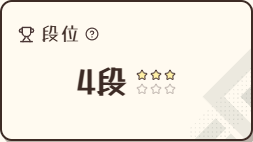
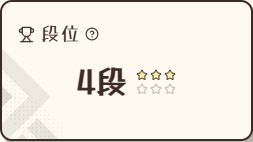
feat(ui): apply functional card screenprints

diff --git a/tests/e2e/card-screenprints.spec.js b/tests/e2e/card-screenprints.spec.js
@@ -1,0 +1,118 @@
+import { expect, test } from "@playwright/test";
+
+const base = "/docs/design-samples/academy-card-materials-2026-10-22/";
+const profile = [
+  [".profile-resume-hero", "identity"], [".profile-summary-item.is-primary", "rank"],
+  [".profile-record-card", "record"], [".profile-recent-section", "record"], [".profile-character-section", "record"]
+];
+const windows = {
+  self: profile, social: profile,
+  friends: [[".fc-person", "social"], [".fc-detail", "social"]],
+  warehouse: [[".wg-entry", "inventory"], [".wg-inspector", "inventory"]],
+  watch: [[".wl-row", "tactics", "::before"]],
+  handbook: [[".character-skill-description", "tactics"], [".character-description", "reading"]],
+  achievement: [[".achievement-row:not(.achievement-heading)", "honor"]],
+  announcement: [[".announcement-list-item", "reading"], [".announcement-detail", "reading"]]
+};
+async function settle(page, selector) {
+  await page.locator(selector).first().waitFor();
+  await page.evaluate(async () => {
+    await document.fonts.ready;
+    await Promise.all([...document.images].map(image => image.decode().catch(() => {})));
+    await Promise.all(document.getAnimations().filter(animation => animation.effect?.getComputedTiming().iterations !== Infinity).map(animation => animation.finished.catch(() => {})));
+  });
+}
+async function cards(page, [selector, , pseudo]) {
+  return page.locator(selector).evaluateAll((elements, pseudoElement) => elements.map(element => {
+    const rect = element.getBoundingClientRect(), style = getComputedStyle(element, pseudoElement);
+    return {
+      box: [rect.x, rect.y, rect.width, rect.height].map(value => Math.round(value * 10) / 10),
+      text: element.textContent,
+      fill: style.backgroundColor, image: style.backgroundImage,
+      size: style.backgroundSize.split(",").at(-1).trim(),
+      position: style.backgroundPosition.split(",").at(-1).trim(),
+      repeat: style.backgroundRepeat.split(",").at(-1).trim()
+    };
+  }), pseudo);
+}
+
+for (const width of [1440, 390, 320]) {
+  for (const [surface, roles] of Object.entries(windows)) {
+    test(`${surface} keeps the approved card layout and function prints at ${width}px`, async ({ page }) => {
+      const errors = [];
+      page.on("pageerror", error => errors.push(error.message));
+      await page.setViewportSize({ width, height: width === 1440 ? 1000 : width === 390 ? 844 : 568 });
+      await page.goto(`${base}sample.html?v=screenprint-roles&window=${surface}`);
+      if (surface === "announcement") await page.locator(".announcement-list-item").first().click();
+      await settle(page, roles[0][0]);
+      const approved = await Promise.all(roles.map(role => cards(page, role)));
+      await page.goto(`${base}production.html?window=${surface}`);
+      if (surface === "announcement") await page.locator(".announcement-list-item").first().click();
+      await settle(page, roles[0][0]);
+      await expect(page.locator("[data-material], #material-preview")).toHaveCount(0);
+      expect(await page.evaluate(() => [...document.styleSheets].some(sheet => /\/(?:materials|screenprint-roles|preview-isolation|harness)\.css/.test(sheet.href || sheet.ownerNode?.getAttribute("data-vite-dev-id") || "")))).toBe(false);
+      for (const [index, role] of roles.entries()) {
+        const actual = await cards(page, role);
+        expect(actual.length).toBeGreaterThan(0);
+        expect(actual.map(({ image: _image, box: _box, ...rest }) => rest)).toEqual(approved[index].map(({ image: _image, box: _box, ...rest }) => rest));
+        for (const [cardIndex, card] of actual.entries()) {
+          for (const [coordinate, value] of card.box.entries()) {
+            // Native table row distribution can round fractions differently after a reload.
+            expect(Math.abs(value - approved[index][cardIndex].box[coordinate])).toBeLessThan(0.5);
+          }
+        }
+        for (const card of actual) {
+          expect(card.image).toContain(`/assets/ui/card-prints/${role[1]}.svg`);
+          expect(card.repeat).toBe("no-repeat");
+        }
+      }
+      expect(await page.evaluate(() => document.documentElement.scrollWidth <= innerWidth)).toBe(true);
+      expect(errors).toEqual([]);
+    });
+  }
+}
+
+test("every public print loads and non-campus/corrupted surfaces stay isolated", async ({ page, request }) => {
+  for (const role of ["identity", "record", "social", "inventory", "tactics", "reading", "honor", "rank"]) {
+    const response = await request.get(`/assets/ui/card-prints/${role}.svg`);
+    expect(response.ok()).toBe(true);
+    expect(await response.text()).toContain("<svg");
+  }
+  await page.goto(`${base}production.html?window=self`);
+  await settle(page, ".profile-resume-hero");
+  const image = () => page.locator(".profile-resume-hero").evaluate(element => getComputedStyle(element).backgroundImage);
+  await page.locator(".app-shell").evaluate(element => element.classList.add("is-sigrika-corrupted"));
+  expect(await image()).not.toContain("card-prints");
+  await page.locator(".app-shell").evaluate(element => { element.classList.remove("is-sigrika-corrupted"); element.classList.remove("theme-bright-school"); });
+  expect(await image()).not.toContain("card-prints");
+  await page.goto(`${base}sample.html?window=self&off=1`);
+  await settle(page, ".profile-resume-hero");
+  expect(await image()).toBe("none");
+});
+
+test("selection, finished-room hover and pressed cards preserve their print and fill", async ({ page }) => {
+  for (const [surface, selector] of [["friends", ".fc-person"], ["warehouse", ".wg-entry"]]) {
+    await page.goto(`${base}production.html?window=${surface}`);
+    await settle(page, selector);
+    const card = page.locator(selector).nth(1);
+    const paint = () => card.evaluate(element => ({ image:getComputedStyle(element).backgroundImage, fill:getComputedStyle(element).backgroundColor }));
+    const before = await paint();
+    await card.click();
+    await expect(card).toHaveAttribute("aria-pressed", "true");
+    expect((await paint()).image).toBe(before.image);
+    await card.hover();
+    await page.mouse.down();
+    expect((await paint()).image).toBe(before.image);
+    await page.mouse.up();
+  }
+  await page.goto(`${base}production.html?window=watch`);
+  await settle(page, ".wl-row.finished");
+  const finished = page.locator(".wl-row.finished").first();
+  const paint = () => finished.evaluate(element => ({ image:getComputedStyle(element, "::before").backgroundImage, fill:getComputedStyle(element, "::before").backgroundColor }));
+  const before = await paint();
+  await finished.locator("button").hover();
+  expect(await paint()).toEqual(before);
+  await page.mouse.down();
+  expect(await paint()).toEqual(before);
+  await page.mouse.up();
+});

diff --git a/src/styles/cssLayerInventory.js b/src/styles/cssLayerInventory.js
@@ -12,16 +12,17 @@ export const CSS_DEBT_BASELINE = {
   date: "2026-10-22",
   scope: "Window loading adds 1035 normalized bytes, three targeted important declarations and reduced-motion coverage in the existing empty-state owner. Ordinary button states replace three repeated selector lists with one nested state owner, add complete press/focus/disabled/reduced-motion rules, and retire generic icon/action motion selectors. Specialty button opt-in removes dossier, purchase and recruitment state duplication while retaining artwork and geometry. All CSS files under src/styles after the import-only split work, including the focused normal/corrupted theme-transition visual structure and reduced-motion owners, the focused corrupted-duel atmosphere, panel, timer, control, icon, secondary-surface, mobile-readability, portaled system-log, lifecycle, replay/result, and dialogue/fake-skill presentation owners, the ten focused production IRIS Database V2 entry/shell/greeting/portrait/archive/record/theme/typography owners with image-free desktop/mobile art reservations and the scoped Dotted Songti Circle plus WuWa Latin/numeric font stack, the shared and Bright School character-music-player subdomains with the transparent hand-painted radio shell, contained alpha-safe asset geometry, and painted-circle control alignment, admin story node settings CSS and story workbook import feedback, frontend layout polish contracts including story-player padding, game-mode icon watermark/player-plaque/nameplate/utility image contracts, the asset-owned open-starlight rune-ink Semantic Ignition with a persistent rim, separated open-center left-to-right filaments/contour streams, and paired right-tail streaks, Danya off-center pearlescent dream bubble, and Aemeath paper-flight beacon nameplate shells plus their reduced-motion owners, Aemeath exact-ID ice-white username treatment, separated paper-wake and perimeter traces, paired right-tail light, the board-owned Aemeath rainbow grid-trace and particle owners with their reduced-motion fallback, the owned-only holographic memorial-ticket action, isolated Pink Cyber Angel sprite-atlas recruitment cinematic, player-mailbox text-only low-chrome list, completion-state dimming, quiet paper reader, independent item/coin tiles, portaled shop-style item detail, quantity/claimed overlays, light-green mail toast, claimed-attachment action state, and final post-theme readability contract, stable desktop utility-art tilt with direction-preserving hover rotation and scale compensation, tutorial reply-option overflow containment, mobile announcement badge anchoring, mobile utility-image feedback containment, the semantic Bright School login header with its responsive mascot-panel composition and extended layered paper-rule shelf, the dedicated 900px mobile-layout login mascot lockup owner plus accessible auth field, password-visibility, pending, short-height scrolling, and reduced-motion rules, the shared orange preload fill-flow, borderless warm-glow, upright endpoint-glide, and disabled password-toggle centering owners, the shared/theme/final-mobile Zahira shop window plus card-layout isolation, compact-height, badge, desktop raster background, dedicated portrait raster background, and enlarged mascot-copy owner files, the deep-red theatrical costume storefront with a separate card/art owner, portaled wardrobe dialog, split responsive wardrobe layout, Bright School costume overlay owners, and home-scoped portrait width guard, cloud-deployment mobile floating layer tokens, transform-surface compositor hints, semantic home/window title typography, the full-width 16px watch-mode tabs with one-em room-count spacing, the final Bright School practice-entry rotation, reduced-motion behavior, and home-utility hard-shadow parity owner, the shared skill-trait description popover, admin glossary, mobile character-detail scrolling owner rules, the scoped Bright School root scrollbar, final portrait modal shadow-gutter, admin neutral scrollbar owners, and the Bright School unobtained-roster monochrome CRT surface, hidden-intel monitor, and shared signal-fault motion owners.",
   metrics: {
-    totalFiles: 763,
-    totalBytes: 1772314,
-    importantCount: 10554,
-    importantFiles: 416,
+    totalFiles: 764,
+    totalBytes: 1776622,
+    importantCount: 10559,
+    importantFiles: 417,
     hardcodedHexCount: 2490,
-    mediaFiles: 342,
+    mediaFiles: 343,
     reducedMotionFiles: 94,
     highZIndexFiles: 7
   },
   featureDeltas: [
+    "2026-10-22: approved functional card screenprints add one bounded final Bright School owner, seven motif SVGs and a mirrored lower-left rank variant. Exact task-only CSS delta {\"totalFiles\":1,\"totalBytes\":4308,\"importantCount\":5,\"importantFiles\":1,\"hardcodedHexCount\":0,\"mediaFiles\":1,\"reducedMotionFiles\":0,\"highZIndexFiles\":0}. Explicit window/card selectors preserve layout, state fills and foreground art; corrupted and other themes are excluded. Single-corner no-repeat paint, existing 768px breakpoint, no runtime animation or unrelated profile debt absorbed.",
     "2026-10-22: approved watch paper cards and live-search frame promote the isolated preview into three bounded watch owners. Finished rooms keep a neutral gray fill during hover/press; stable snap targets preserve complete rows. Exact scoped delta {\"totalFiles\":1,\"totalBytes\":3210,\"importantCount\":3,\"importantFiles\":1,\"hardcodedHexCount\":0,\"mediaFiles\":1,\"reducedMotionFiles\":1,\"highZIndexFiles\":0}; no unrelated profile CSS absorbed, all owners below 6000 bytes.",
     "2026-10-22: approved warehouse paper layout replaces the existing three final owners, removing category/paging styles and retaining target-dialog rules. Exact delta: +72 normalized bytes, +20 scoped important declarations, +1 media owner and +1 reduced-motion owner. No new CSS files, literal colors, breakpoint families or z-index owners. Whole-row fitting and native snapping reserve both card-edge shadows; portrait detail stays compact.",
     "2026-10-22: remove the friends search focus-within outline at user request; -90 normalized bytes in the existing owner, no other metric growth.",
@@ -605,6 +606,7 @@ export const CSS_LAYER_GROUPS = [
       "mobile-adaptive/mobile-room-portrait.css",
       "mobile-adaptive/mobile-room-landscape.css",
       "mobile-adaptive/mobile-profile-records.css",
+      "mobile-adaptive/card-screenprints.css",
       "mobile-adaptive/mobile-profile-records/profile-shell-hero.css",
       "mobile-adaptive/mobile-profile-records/profile-summary-results.css",
       "mobile-adaptive/mobile-profile-records/character-record-list.css",

diff --git a/docs/system-design.html b/docs/system-design.html
@@ -53,6 +53,8 @@
 </head>
 <body>
 <h1>SigrikaGo 系统设计</h1>
+<h3>2026-10-22 功能卡片丝印正式接入</h3>
+<p>已将用户确认的<a href="./design-samples/academy-card-materials-2026-10-22/screenprint.html">七种功能纹理</a>接入普通 Bright School 的履历、他人详情、好友、仓库、观战、角色详情、成就和公告。独立最终样式 owner 按卡片语义分配静态 SVG，只覆盖单次背景绘制；保留原尺寸、文字、边框、阴影、状态色及角色美术，黑化主题和其它主题不参与。按后续要求，段位使用授章图形的左右镜像并放在左下角，成就继续使用右下原图。桌面与竖屏采用已确认的不同尺度；观战纹理随原纸卡底层移动。比较页新增<a href="./design-samples/academy-card-materials-2026-10-22/production.html">正式样式预览</a>，历史样板保留独立覆盖以便对照；详情预览先挂载主题壳再打开 Portal，与正式应用生命周期一致。资源、作用域与验证合同见 <a href="./system-design/06-ui-theme-mobile.md">UI 主题分篇</a>及<a href="./design-samples/academy-card-materials-2026-10-22/production-integration.md">实装记录</a>。</p>
 <h3>2026-10-22 按卡片功能分配丝印纹理</h3>
 <p>用户认可 C 战术丝印后，新增<a href="./design-samples/academy-card-materials-2026-10-22/screenprint.html">七类功能纹理样板</a>：档案切角用于身份，棋局矩阵用于战绩与挑战，交叠联结用于好友，封装折带用于物品，对向楔阵用于技能与观战，页角印层用于简介与公告，授章菱片用于段位和成就。同一履历组合身份／荣誉／记录三种背景，角色详情区分战术正文与阅读简介；列表和详情使用不同尺度与角部留白。保留原 A/B/C 比较和生产布局、字体、状态色及专属角色美术，新增样板根标记只在独立页面启用；正式主题未接入。八类窗口在桌面及 390／320px 共 24 组验证中卡片位置、尺寸和文字与原版一致，无横向溢出或加载错误。映射表、生成脚本、截图与验证见<a href="./design-samples/academy-card-materials-2026-10-22/functional-screenprint.md">功能丝印说明</a>。</p>
 <h3>2026-10-22 学院卡片材质三版跨窗口样板</h3>
@@ -5411,6 +5413,10 @@
 <p>普通登录加载复用 <code>AssetPreloadScreen</code> 的随机角色、跳动、纸质进度条与 10 秒提示轮换；<code>LoginAssetPreloadScreen</code> 仅适配实时目录、台词、进度与笔刷 Tip 样式。Tip 位于加载条下方，正文桌面 14px、手机 13px，最大宽度 440px。入口预热移除思考场景素材，仅保留 Tip 笔刷；资源就绪门禁、2 秒完成停留和黑化角色专用显示保持不变。</p>
 <p>---</p>
 <h1>UI 主题、移动端与交互体验</h1>
+<h2>按功能分配的卡片丝印（2026-10-22）</h2>
+<p>普通 Bright School 的八类内容窗口采用七种角部丝印：身份切角、记录矩阵、社交联结、物品折带、战术楔阵、阅读页角和荣誉菱片。资源位于 <code>public/assets/ui/card-prints/</code>；另有 <code>rank.svg</code> 将荣誉图形左右镜像，仅段位卡放在左下，成就仍保持右下。映射覆盖履历与他人详情、好友、仓库、观战、角色详情、成就和公告，不以卡片数组顺序随机分配。同一履历组合身份／荣誉／记录，角色技能和简介区分战术／阅读。</p>
+<p><code>mobile-adaptive/card-screenprints.css</code> 作为最终主题 owner 通过明确窗口与卡片选择器设置背景图、大小、位置、单次绘制和 padding-box 绘制原点；不修改背景色、尺寸、字形、边框、阴影或滚动。仅匹配启用 Bright School 且非黑化的应用壳；后台、IRIS、其它主题、输入和按钮不参与。观战使用 <code>.wl-row::before</code>，保留已结束灰色及纸卡位移；角色详情沿用应用壳 Portal，声痕、棋子、阵营与角色立绘保持原有 owner。768px 以下缩小大面板和正文角纹。静态 SVG 随构建复制，按实际卡片绘制加载，不新增首页预加载或运行时动效。</p>
+<p><code>tests/e2e/card-screenprints.spec.js</code> 对照已选样板与仅加载正式样式的预览，覆盖 1440／390／320px 的八类窗口、语义映射、文字与填色、卡片几何、主题隔离以及选中／按下／观战结束态。原版样板通过独立预览覆盖保持纯色对照；生产预览没有样板根标记或材质样式。样板详情先挂载 <code>.app-shell</code> 再打开弹层，避免初始化时 Portal 找不到主题壳而脱离正式样式。</p>
 <h2>全局字体与保留区域</h2>
 <p><code>base/foundation.css</code> 的 <code>--font-ui-default</code> 首选 <code>Sigrika Window Title</code>，复用已有 <code>LXGWMarkerGothic-Regular.ttf</code>（霞鹜漫黑），不新增字体资产。最初的 HTML 进站页也声明相同 face 与 URL，采用 font-display: swap，字体加载期间立即显示系统回退，不阻塞首屏。玩家界面、后台、普通与特殊主题、表单、普通数字和棋盘坐标共用此默认值；原本直接指定雅黑、Arial、Consolas、宋体等字体的组件 owner 及 font 简写同步改用该 token，避免主题最终覆盖使默认值失效。保留现有字号、字重、tabular-nums 和缺字系统回退；登录/注册输入与按钮显式设置 1.25 行高，消除换字体后每行 1px 的累计增高，保持原有紧凑高度。</p>
 <p>WuWa 的 <code>Sigrika Accent Latin</code> face、字母/数字 unicode-range、语义 class 与全部使用位置保持原样。IRIS 是整块例外：入口和友情链接列表仍为 Dotted Songti Circle，窗口其他文字保留原有 WuWa / Dotted Songti Circle 混合栈及原系统回退，在 IRIS 根节点固定原 UI 回退栈，确保桌面 RECORDS / STATUS 等小字也不受全局切换影响。图片内已有文字与历史设计样板不重新绘制。生产代码没有独立指定字体的 Canvas/Pixi 文本。</p>

diff --git a/src/styles/mobile-adaptive/card-screenprints.css b/src/styles/mobile-adaptive/card-screenprints.css
@@ -1,0 +1,44 @@
+/* Approved semantic corner prints. Paint only; card geometry and state fills stay with their owners. */
+.app-shell.player-theme-enabled.theme-bright-school.theme-bright-school:not(.is-sigrika-corrupted) {
+  :is(
+    .profile-folder-modal.profile-folder-modal.window-bookmark-host :is(.profile-resume-hero, .profile-summary-item, .profile-recent-section, .profile-character-section, .profile-capture-record),
+    .friends-modal.friends-companion-window :is(.fc-person, .fc-detail),
+    .warehouse-modal.warehouse-field-guide :is(.wg-entry, .wg-inspector),
+    .character-detail-figure-backdrop :is(.character-skill-description, .character-description),
+    .achievement-modal .achievement-row:not(.achievement-heading),
+    .announcement-modal :is(.announcement-list-item, .announcement-detail)
+  ),
+  .watch-ledger .wl-row::before {
+    background-image: var(--card-print-image) !important;
+    background-repeat: no-repeat !important;
+    background-size: var(--card-print-size) !important;
+    background-position: var(--card-print-position, right bottom) !important;
+    background-origin: padding-box !important;
+  }
+
+  .profile-resume-hero { --card-print-image: url('/assets/ui/card-prints/identity.svg'); --card-print-size: 390px 390px; --card-print-position: right top; }
+  .profile-summary-item.is-primary { --card-print-image: url('/assets/ui/card-prints/rank.svg'); --card-print-size: 170px 170px; --card-print-position: left -28px bottom -10px; }
+  :is(.profile-record-card, .profile-capture-record) { --card-print-image: url('/assets/ui/card-prints/record.svg'); --card-print-size: 210px 210px; --card-print-position: left bottom; }
+  .profile-character-section { --card-print-image: url('/assets/ui/card-prints/record.svg'); --card-print-size: 280px 280px; --card-print-position: left bottom; }
+  .profile-recent-section { --card-print-image: url('/assets/ui/card-prints/record.svg'); --card-print-size: 140px 140px; --card-print-position: left bottom; }
+  .fc-person { --card-print-image: url('/assets/ui/card-prints/social.svg'); --card-print-size: 160px 160px; --card-print-position: right -4px bottom -10px; }
+  .fc-detail { --card-print-image: url('/assets/ui/card-prints/social.svg'); --card-print-size: 430px 430px; --card-print-position: right -28px bottom -20px; }
+  .wg-entry { --card-print-image: url('/assets/ui/card-prints/inventory.svg'); --card-print-size: 160px 160px; --card-print-position: right -20px center; }
+  .wg-inspector { --card-print-image: url('/assets/ui/card-prints/inventory.svg'); --card-print-size: 420px 420px; --card-print-position: right -50px bottom -25px; }
+  .wl-row { --card-print-image: url('/assets/ui/card-prints/tactics.svg'); --card-print-size: 250px 250px; --card-print-position: right -5px bottom -25px; }
+  .character-skill-description { --card-print-image: url('/assets/ui/card-prints/tactics.svg'); --card-print-size: 205px 205px; --card-print-position: right -20px bottom -20px; }
+  .derived-skill-detail > .character-skill-description { --card-print-size: 170px 170px; --card-print-position: right -10px bottom -20px; }
+  .character-description { --card-print-image: url('/assets/ui/card-prints/reading.svg'); --card-print-size: 220px 220px; --card-print-position: right bottom; }
+  .achievement-row { --card-print-image: url('/assets/ui/card-prints/honor.svg'); --card-print-size: 160px 160px; --card-print-position: right -18px bottom -16px; }
+  .announcement-list-item { --card-print-image: url('/assets/ui/card-prints/reading.svg'); --card-print-size: 150px 150px; --card-print-position: right bottom; }
+  .announcement-detail { --card-print-image: url('/assets/ui/card-prints/reading.svg'); --card-print-size: 350px 350px; --card-print-position: right bottom; }
+
+  @media (max-width: 768px) {
+    .profile-resume-hero { --card-print-size: 260px 260px; }
+    .profile-character-section { --card-print-size: 210px 210px; }
+    :is(.fc-detail, .wg-inspector) { --card-print-size: 270px 270px; }
+    :is(.character-skill-description, .derived-skill-detail > .character-skill-description) { --card-print-size: 155px 155px; }
+    .character-description { --card-print-size: 170px 170px; }
+    .wl-row { --card-print-size: 200px 200px; --card-print-position: right -15px bottom -12px; }
+  }
+}

diff --git a/docs/design-samples/academy-card-materials-2026-10-22/screenprint.html b/docs/design-samples/academy-card-materials-2026-10-22/screenprint.html
@@ -13,9 +13,9 @@
   <section id="live" aria-labelledby="live-title"><div class="live-heading"><h2 id="live-title">在完整窗口中看搭配</h2><p id="description">我的履历</p></div>
     <nav class="window-tabs" aria-label="窗口"><button data-window="self" aria-pressed="true">我的履历</button><button data-window="social" aria-pressed="false">他人详情</button><button data-window="friends" aria-pressed="false">好友</button><button data-window="warehouse" aria-pressed="false">仓库</button><button data-window="watch" aria-pressed="false">观战</button><button data-window="handbook" aria-pressed="false">角色详情</button><button data-window="achievement" aria-pressed="false">成就</button><button data-window="announcement" aria-pressed="false">公告</button></nav>
     <p class="assignment" id="assignment" aria-live="polite">身份用切角，段位用授章，战绩和挑战用矩阵。</p>
-    <div class="toolbar"><div class="version-controls" aria-label="设计对照"><button data-version="roles" aria-pressed="true">按功能分配</button><button data-version="original" aria-pressed="false">原 C 同纹</button><button data-version="baseline" aria-pressed="false">纯色原版</button><select id="fixture" aria-label="示例数据"><option value="normal">正常内容</option><option value="long">长名字 / 长正文</option><option value="empty">空数据</option></select></div><div class="sizes" aria-label="视口尺寸"><button data-size="desktop" aria-pressed="true">桌面</button><button data-size="mobile" aria-pressed="false">390px</button><button data-size="narrow" aria-pressed="false">320px</button><a id="standalone" href="./sample.html?v=screenprint-roles&window=self" target="_blank" rel="noopener">单独打开 ↗</a></div></div>
-    <div class="preview-stage"><div class="frame-wrap" data-size="desktop"><iframe src="./sample.html?v=screenprint-roles&window=self" title="功能丝印 · 我的履历"></iframe></div></div>
+    <div class="toolbar"><div class="version-controls" aria-label="设计对照"><button data-version="production" aria-pressed="true">正式效果</button><button data-version="roles" aria-pressed="false">已选样板</button><button data-version="original" aria-pressed="false">原 C 同纹</button><button data-version="baseline" aria-pressed="false">纯色原版</button><select id="fixture" aria-label="示例数据"><option value="normal">正常内容</option><option value="long">长名字 / 长正文</option><option value="empty">空数据</option></select></div><div class="sizes" aria-label="视口尺寸"><button data-size="desktop" aria-pressed="true">桌面</button><button data-size="mobile" aria-pressed="false">390px</button><button data-size="narrow" aria-pressed="false">320px</button><a id="standalone" href="./production.html?window=self" target="_blank" rel="noopener">单独打开 ↗</a></div></div>
+    <div class="preview-stage"><div class="frame-wrap" data-size="desktop"><iframe src="./production.html?window=self" title="功能丝印 · 我的履历"></iframe></div></div>
   </section>
-  <footer>独立样板，尚未接入正式主题。点击上方纹理可跳到对应窗口；纹理按功能固定分配，文字、布局与状态色沿用现有界面。<a href="./functional-screenprint.md">查看分配表与验证说明</a></footer>
+  <footer>已按此方案接入正式主题。当前预览使用正式样式和本地示例数据。点击上方纹理可跳到对应窗口；纹理按功能固定分配，文字、布局与状态色沿用现有界面。<a href="./functional-screenprint.md">查看分配表与验证说明</a></footer>
   <script type="module" src="./role-studio.js"></script>
 </body></html>

diff --git a/docs/design-samples/academy-card-materials-2026-10-22/role-studio.js b/docs/design-samples/academy-card-materials-2026-10-22/role-studio.js
@@ -5,10 +5,10 @@ const motifs = [
   {role:'inventory',name:'封装折带',use:'物品 / 仓库说明',note:'保留原 C 的斜切折带与局部网点。',surface:'warehouse'},
   {role:'tactics',name:'对向楔阵',use:'技能 / 观战对局',note:'相向楔形和中间留隙，形成对弈感。',surface:'handbook'},
   {role:'reading',name:'页角印层',use:'简介 / 公告正文',note:'低对比页角叠层，让长文更安静。',surface:'announcement'},
-  {role:'honor',name:'授章菱片',use:'段位 / 成就',note:'厚实的菱形印章和分段尾部。',surface:'achievement'},
+  {role:'honor',name:'授章菱片',use:'段位 / 成就',note:'段位镜像放左下，成就原图放右下。',surface:'achievement'},
 ];
 const windows = {
-  self:['我的履历','身份用切角，段位用授章，战绩和挑战用矩阵。'],
+  self:['我的履历','身份用切角，段位用镜像授章放左下，战绩和挑战用矩阵。'],
   social:['他人详情','沿用身份、授章和矩阵三种功能分工，保留社交操作区。'],
   friends:['好友','名单与伙伴详情都属于关系卡；小卡更轻，大卡放大交叠联结。'],
   warehouse:['仓库','物品卡和详情使用封装折带；商品图、数量与使用按钮保持清楚。'],
@@ -17,11 +17,11 @@ const windows = {
   achievement:['成就','授章菱片作为静态背景；解锁状态继续由原有界面表达。'],
   announcement:['公告','列表用小页角，长文用弱化的大页角，保持正文留白。'],
 };
-let surface='self',version='roles';
+let surface='self',version='production';
 const frame=document.querySelector('iframe');
 function update(){
   const query=new URLSearchParams({v:version==='original'?'screenprint':'screenprint-roles',window:surface,fixture:document.querySelector('#fixture').value,off:version==='baseline'?'1':'0'});
-  frame.src='./sample.html?'+query;frame.title='功能丝印 · '+windows[surface][0];
+  frame.src=(version==='production'?'./production.html?':'./sample.html?')+query;frame.title='功能丝印 · '+windows[surface][0];
   document.querySelector('#description').textContent=windows[surface][0];
   document.querySelector('#assignment').textContent=windows[surface][1];
   document.querySelector('#standalone').href=frame.src;
@@ -32,7 +32,7 @@ for(const motif of motifs){
   const button=document.createElement('button');button.className='motif-choice';button.dataset.role=motif.role;
   button.innerHTML=`<span class="motif-paper"><img src="./role-${motif.role}.svg" alt="" /></span><strong>${motif.name}</strong><small>${motif.use}<br>${motif.note}</small>`;
   button.setAttribute('aria-label',`${motif.name}：查看${windows[motif.surface][0]}`);
-  button.addEventListener('click',()=>{surface=motif.surface;version='roles';update();document.querySelector('#live').scrollIntoView();});
+  button.addEventListener('click',()=>{surface=motif.surface;version='production';update();document.querySelector('#live').scrollIntoView();});
   document.querySelector('.motif-board').append(button);
 }
 const note=document.createElement('p');note.className='motif-note';note.innerHTML='<strong>同功能，保持一致。<br>不同功能，改变构图。</strong>不按卡片序号随机换纹理。<br>大小、留白和所在角落随内容调整。';document.querySelector('.motif-board').append(note);

diff --git a/docs/design-samples/academy-card-materials-2026-10-22/sample.jsx b/docs/design-samples/academy-card-materials-2026-10-22/sample.jsx
@@ -1,9 +1,6 @@
-import { useState } from 'react';
+import { useEffect, useState } from 'react';
 import { createRoot } from 'react-dom/client';
 import '../../../src/styles.css';
-import './harness.css';
-import './materials.css';
-import './screenprint-roles.css';
 import { profile, user as initialUser } from './fixtures.js';
 import { CHARACTERS, characterListFromCatalog, mergeCharacters } from '../../../src/shared/characters.js';
 import ResumeModal from '../../../src/modals/ResumeModal.jsx';
@@ -21,23 +18,34 @@ import traits from '../handbook-paper-2026-10-22/traits.json';
 
 await loadCachedPublicSkillTraitCatalog({apiClient:async()=>traits});
 const params=new URLSearchParams(location.search);
+const productionPreview=location.pathname.endsWith('/production.html');
+if(!productionPreview){
+  await import('./harness.css');
+  await import('./preview-isolation.css');
+  await import('./materials.css');
+  await import('./screenprint-roles.css');
+}
 const variants=['imprint','relief','screenprint','screenprint-roles'];
 const variant=variants.includes(params.get('v'))?params.get('v'):'imprint';
-document.documentElement.id='material-preview';
-document.documentElement.dataset.material=params.get('off')==='1'?'baseline':variant;
+if(!productionPreview){
+  document.documentElement.id='material-preview';
+  document.documentElement.dataset.material=params.get('off')==='1'?'baseline':variant;
+}
 const view=params.get('window')||'warehouse';
 const characters=mergeCharacters(catalog.characters,catalog.disabledSlugs);
 const character=characters.aemeath;
 const silent={master:0,voice:0,music:0,sfx:0};
 const noop=()=>{};
 function Sample(){
-  const [open,setOpen]=useState(true);
+  const [open,setOpen]=useState(false);
+  // Match the app lifecycle: a detail portal opens after its themed shell mounts.
+  useEffect(()=>setOpen(true),[]);
   const [aux,setAux]=useState('');
   const [user,setUser]=useState(initialUser);
   const close=()=>setOpen(false);
   const onNotice=(message)=>setAux(message);
   const common={token:'material-local-preview',characters:CHARACTERS,onClose:close,onNotice};
-  return <main id="material-root" className="app-shell player-theme-enabled theme-bright-school" data-material={params.get('off')==='1'?'baseline':variant}>
+  return <main id={productionPreview?undefined:'material-root'} className="app-shell player-theme-enabled theme-bright-school" data-material={productionPreview?undefined:params.get('off')==='1'?'baseline':variant}>
     {!open&&<button className="sample-reopen" onClick={()=>setOpen(true)}>重新打开窗口</button>}
     {open&&view==='self'&&<ResumeModal user={profile()} token={common.token} characterListView={characterListFromCatalog(CHARACTERS)} onClose={close} onOpenAchievements={()=>setAux('成就入口')} onOpenPersonalization={()=>setAux('个性化入口')} onOpenReplay={()=>setAux('回放入口')}/>}
     {open&&view==='social'&&<div className="modal-backdrop profile-modal-backdrop"><UserProfileCard titleStickers user={profile()} {...common} onAddFriend={noop} onRemoveFriend={noop} onAddBlacklist={noop} onRemoveBlacklist={noop}/></div>}

diff --git a/src/styles/styleContract.test.js b/src/styles/styleContract.test.js
@@ -695,14 +695,15 @@ describe("root CSS entry contract", () => {
       "./mobile-adaptive/readable-type-windows.css",
       "./mobile-adaptive/readable-type-profile.css",
       "./mobile-adaptive/readable-type-battle.css",
-      "./mobile-adaptive/readable-type-admin.css"
+      "./mobile-adaptive/readable-type-admin.css",
+      "./mobile-adaptive/card-screenprints.css"
     ]);
     expect(mobileEntry).not.toContain(".gacha-modal {");
     expect(mobileEntry).not.toContain(".mobile-room-screen {");
     expect(mobileEntry).not.toContain(".home-mobile-menu-panel");
 
     const finalNameplateCss = readFileSync(new URL("./mobile-adaptive/user-nameplate-final.css", import.meta.url), "utf8");
-    expect(cssImports(mobileEntry).at(-1)).toBe("./mobile-adaptive/readable-type-admin.css");
+    expect(cssImports(mobileEntry).at(-1)).toBe("./mobile-adaptive/card-screenprints.css");
     const corruptionEntry = readFileSync(new URL("./mobile-adaptive/sigrika-corruption.css", import.meta.url), "utf8");
     const corruptionShellCss = readFileSync(new URL("./mobile-adaptive/sigrika-corruption/shell.css", import.meta.url), "utf8");
     const corruptionDamageCss = readFileSync(new URL("./mobile-adaptive/sigrika-corruption/damage-field.css", import.meta.url), "utf8");

diff --git a/docs/design-samples/academy-card-materials-2026-10-22/screenprint-roles.css b/docs/design-samples/academy-card-materials-2026-10-22/screenprint-roles.css
@@ -2,7 +2,7 @@
 [data-material="screenprint-roles"] { --m-veil:transparent; }
 #material-preview[data-material="screenprint-roles"] {
   .profile-resume-hero { --m-image:url('./role-identity.svg'); --m-size:390px 390px; --m-position:right top; }
-  .profile-summary-item.is-primary { --m-image:url('./role-honor.svg'); --m-size:170px 170px; --m-position:right -28px bottom -10px; }
+  .profile-summary-item.is-primary { --m-image:url('./role-rank.svg'); --m-size:170px 170px; --m-position:left -28px bottom -10px; }
   :is(.profile-record-card,.profile-capture-record) { --m-image:url('./role-record.svg'); --m-size:210px 210px; --m-position:left bottom; }
   .profile-character-section { --m-image:url('./role-record.svg'); --m-size:280px 280px; --m-position:left bottom; }
   .profile-recent-section {

diff --git a/tests/e2e/card-screenprints.config.js b/tests/e2e/card-screenprints.config.js
@@ -1,0 +1,13 @@
+import { defineConfig } from "@playwright/test";
+import { fileURLToPath } from "node:url";
+
+export default defineConfig({
+  testDir: ".", testMatch: "card-screenprints.spec.js", workers: 1, timeout: 30000,
+  use: { baseURL: "http://127.0.0.1:5301", channel: "msedge", reducedMotion: "reduce" },
+  webServer: {
+    cwd: fileURLToPath(new URL("../../", import.meta.url)),
+    command: "node node_modules/vite/bin/vite.js --host 127.0.0.1 --port 5301 --strictPort",
+    port: 5301, reuseExistingServer: false
+  },
+  outputDir: "../../.codex-run/card-screenprints-browser"
+});

diff --git a/docs/design-samples/academy-card-materials-2026-10-22/preview-isolation.css b/docs/design-samples/academy-card-materials-2026-10-22/preview-isolation.css
@@ -1,0 +1,3 @@
+/* Preserve historical pure/other-material samples after the runtime theme adopts C. */
+#material-preview :is(.profile-resume-hero,.profile-summary-item,.profile-recent-section,.profile-character-section,.profile-capture-record,.fc-person,.fc-detail,.wg-entry,.wg-inspector,.character-skill-description,.character-description,.achievement-row:not(.achievement-heading),.announcement-list-item,.announcement-detail),
+#material-preview .wl-row::before { background-image:none !important; }

diff --git a/docs/design-samples/academy-card-materials-2026-10-22/production.html b/docs/design-samples/academy-card-materials-2026-10-22/production.html
@@ -1,0 +1,1 @@
+<!doctype html><html lang="zh-CN"><head><meta charset="utf-8"><meta name="viewport" content="width=device-width,initial-scale=1"><title>正式主题 · 功能卡片丝印</title><link rel="icon" href="data:,"></head><body><div id="root"></div><script type="module" src="./sample.jsx"></script></body></html>
